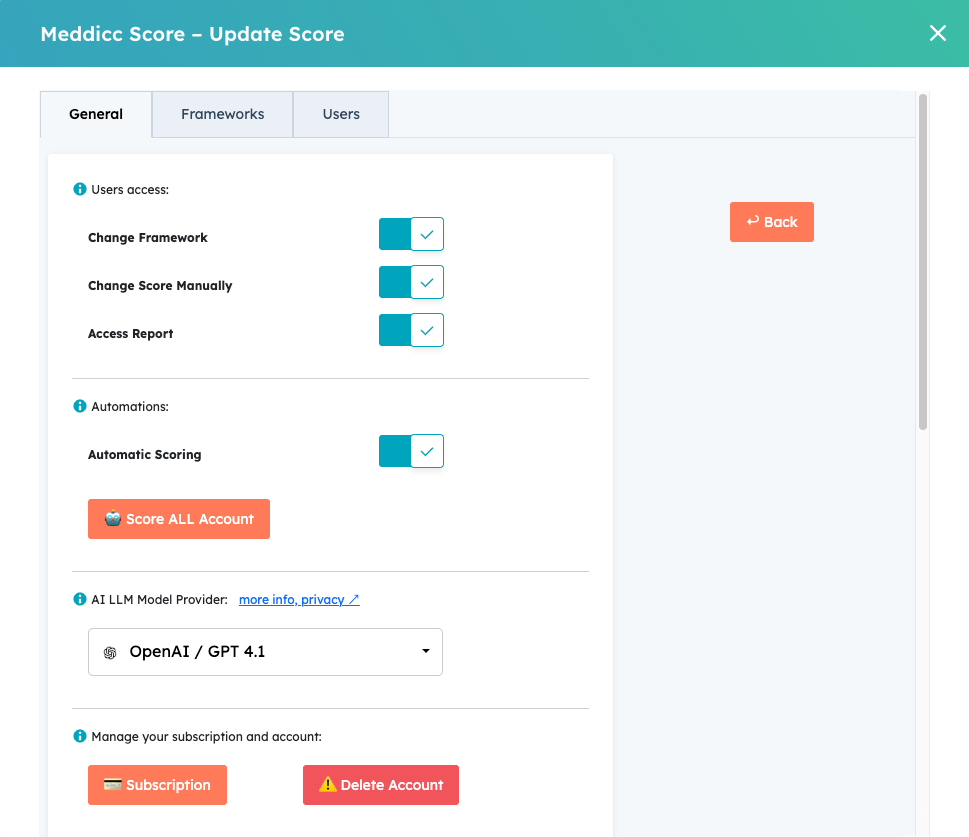
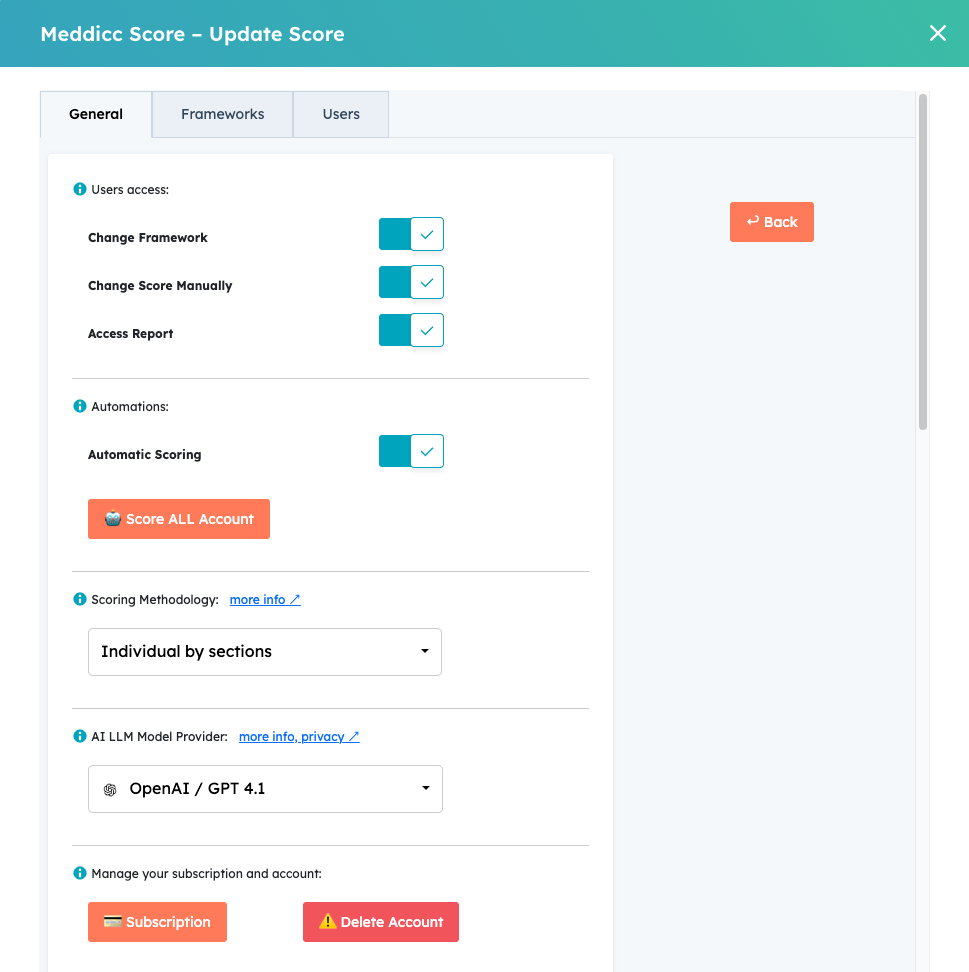
Adding daily AI post

diff --git a/_posts/2023-01-01-setup-guide.md b/_posts/2023-01-01-setup-guide.md
@@ -107,10 +107,11 @@ Note: Comments to engagements are not gathered since they are not available thro
 
 <ul>
   <li>Users can also modify the score manually by clicking the pencil icon below the score.</li>
+  <li>Users can also lock the score value. When the score is locked, it will not be changed by manual edits or by Automations. This is useful if you want to update the form with new AI-generated responses or feedback, but keep the previously agreed score unchanged.</li>
   <li>All scores are stored in HubSpot as a property (custom variable) named “score_meddicc”.</li>
 </ul>
 
-<p class="text-center"><img src="../../assets/images/guide41.png" alt="Manual Scoring" class="w-50 my-3 mx-auto border border-3 border-primary rounded rounded-3"></p>
+<p class="text-center"><img src="../../assets/images/guide412.png" alt="Manual Scoring" class="w-50 my-3 mx-auto border border-3 border-primary rounded rounded-3"><img src="../../assets/images/guide413.png" alt="Manual Scoring" class="w-50 my-3 mx-auto border border-3 border-primary rounded rounded-3"></p>
 
 <ul>
   <li>Each question can include a short guidance text to help users provide better answers. By clicking the info icon, this guidance will be displayed. The text can also be customized in the Settings menu.</li>
@@ -179,7 +180,7 @@ Note: Comments to engagements are not gathered since they are not available thro
     <strong>All the form together (default):</strong> When enabled, the entire form is evaluated by the selected AI LLM model, which generates a score based on the overall responses within the sales qualification framework and assesses the likelihood of successfully closing the deal. Please note that results may vary depending on the chosen model and the specific evaluation, and may sometimes be subject to interpretation or appear optimistic in nature.
   </li>
   <li>
-    <strong>By section:</strong> With this option, each section of the form (e.g., Metrics, Economic Buyer, etc.) is scored as either bad (0), medium (0.5), or good (1). The individual section scores are then summed, divided by the total number of sections, and multiplied by 100 to produce a final score between 0 and 100. This method provides more predictable and consistent results, though it may also lead to more repetitive scoring patterns.
+    <strong>Individual by sections:</strong> With this option, each section of the form (e.g., Metrics, Economic Buyer, etc.) is scored as either bad (0), medium (0.5), or good (1). The individual section scores are then summed, divided by the total number of sections, and multiplied by 100 to produce a final score between 0 and 100. This method provides more predictable and consistent results, though it may also lead to more repetitive scoring patterns.
   </li>
 </ul>
 
